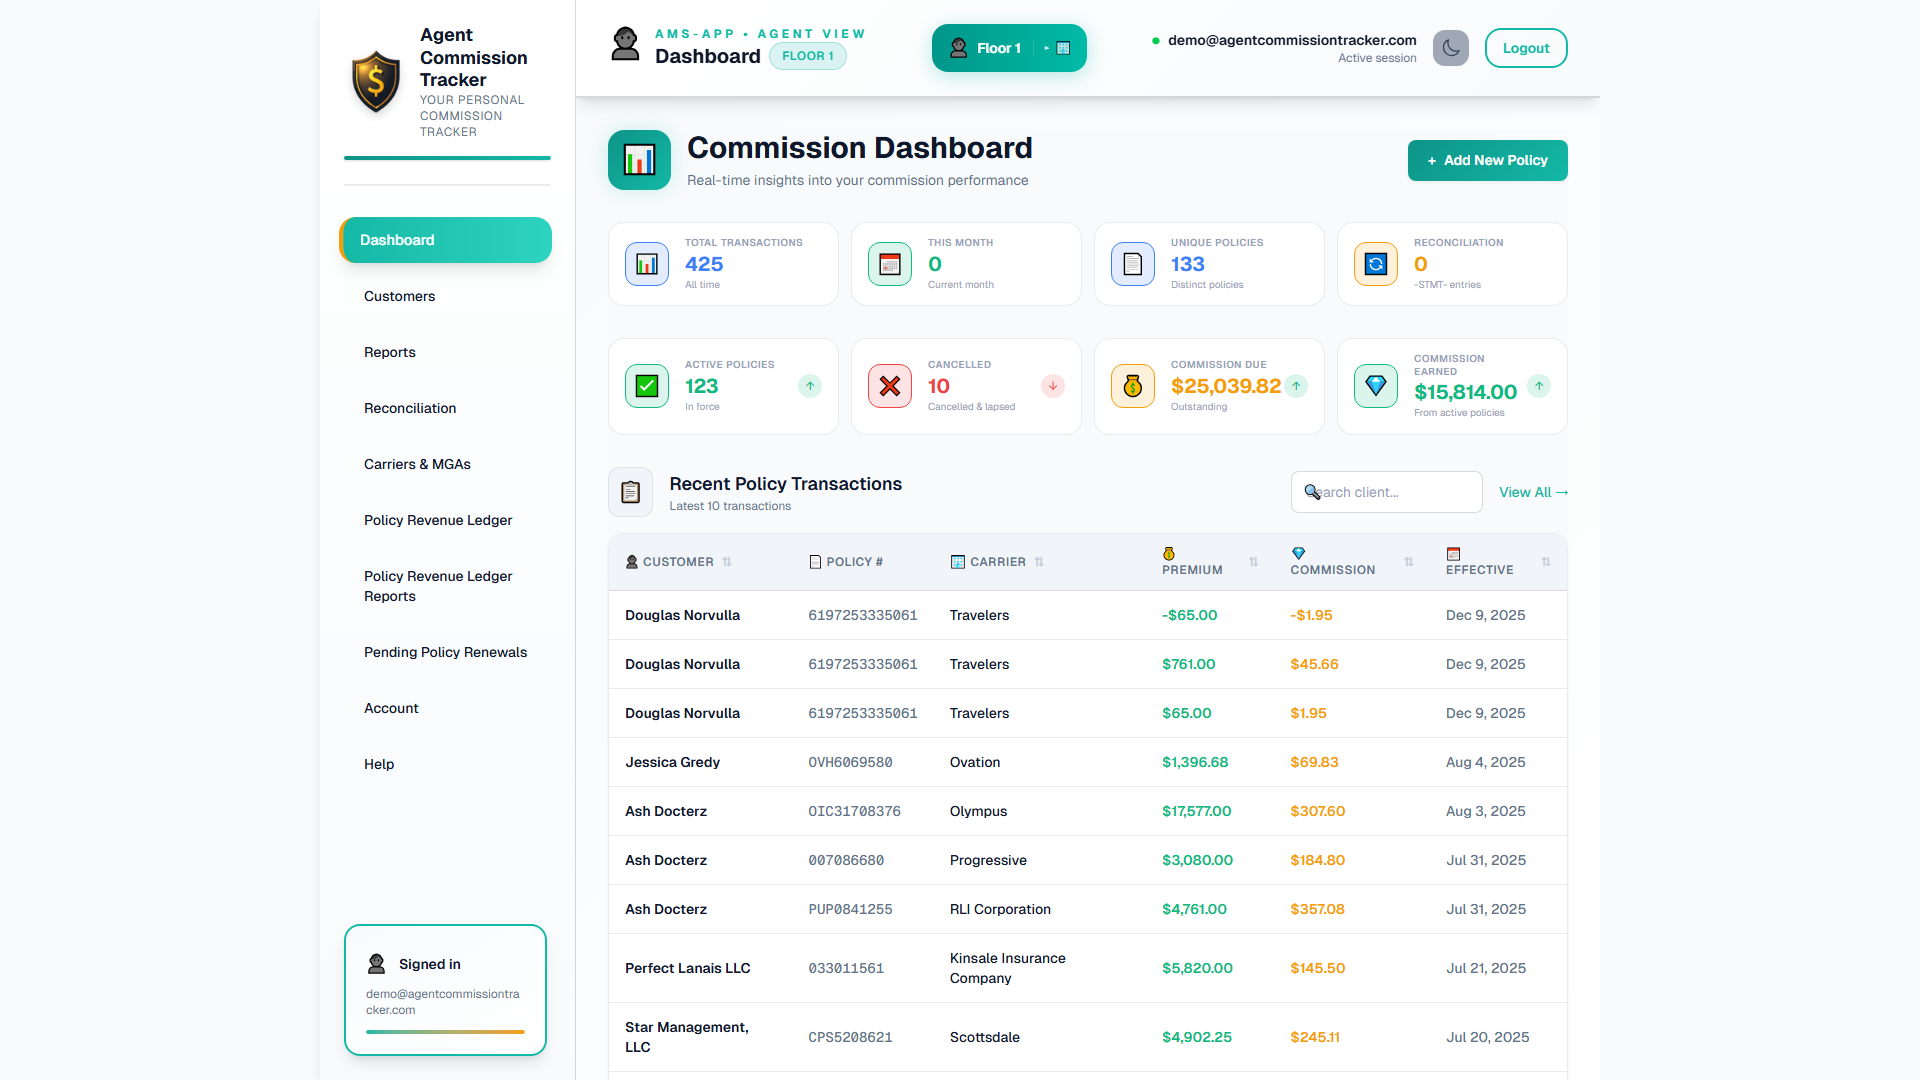
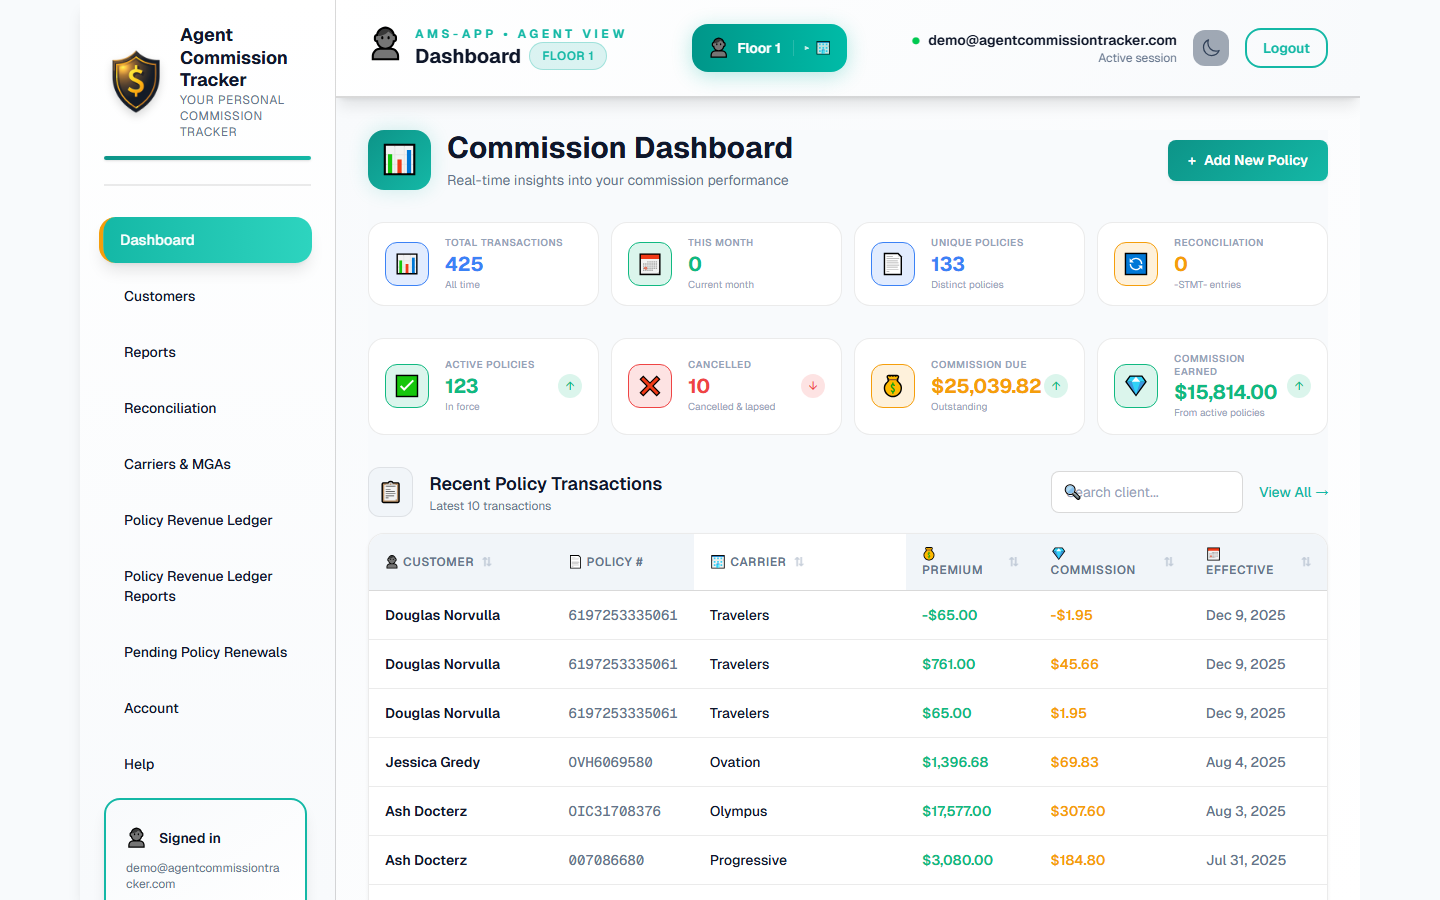
Full screenshots with sidebar, captions outside borders, no cut-off tops
All screenshots retaken at 1440x900 showing complete app with sidebar.
Captions moved outside the blue border to regular text below each image.
No more cropping or cut-off headers.

diff --git a/src/app/ams-app/page.tsx b/src/app/ams-app/page.tsx
@@ -90,33 +90,33 @@ export default function AmsAppPage() {
           </h2>
 
           <div className="grid grid-cols-1 md:grid-cols-2 gap-10">
-            <div className="rounded-xl overflow-hidden shadow-lg border-2 border-primary">
-              <Image src="/images/ams-app/reconciliation.png" alt="Commission reconciliation" width={1344} height={980} className="w-full h-auto" />
-              <div className="p-5 bg-white">
-                <h3 className="font-bold text-xl mb-2">Automated Reconciliation</h3>
-                <p className="text-neutral-dark">Import carrier statements and match payments to policies automatically. Discrepancies are highlighted instantly.</p>
+            <div>
+              <div className="rounded-xl overflow-hidden shadow-lg border-2 border-primary">
+                <Image src="/images/ams-app/reconciliation.png" alt="Commission reconciliation" width={1440} height={900} className="w-full h-auto" />
               </div>
+              <h3 className="font-bold text-xl mt-4 mb-2">Automated Reconciliation</h3>
+              <p className="text-neutral-dark">Import carrier statements and match payments to policies automatically. Discrepancies are highlighted instantly.</p>
             </div>
-            <div className="rounded-xl overflow-hidden shadow-lg border-2 border-primary">
-              <Image src="/images/ams-app/carriers.png" alt="Carrier management" width={1344} height={980} className="w-full h-auto" />
-              <div className="p-5 bg-white">
-                <h3 className="font-bold text-xl mb-2">Carrier Management</h3>
-                <p className="text-neutral-dark">All your carriers in one place. Progressive, Travelers, Safeco, and many more P&amp;C carriers supported.</p>
+            <div>
+              <div className="rounded-xl overflow-hidden shadow-lg border-2 border-primary">
+                <Image src="/images/ams-app/carriers.png" alt="Carrier management" width={1440} height={900} className="w-full h-auto" />
               </div>
+              <h3 className="font-bold text-xl mt-4 mb-2">Carrier Management</h3>
+              <p className="text-neutral-dark">All your carriers in one place. Progressive, Travelers, Safeco, and many more P&amp;C carriers supported.</p>
             </div>
-            <div className="rounded-xl overflow-hidden shadow-lg border-2 border-primary">
-              <Image src="/images/ams-app/ledger.png" alt="Policy revenue ledger" width={1344} height={980} className="w-full h-auto" />
-              <div className="p-5 bg-white">
-                <h3 className="font-bold text-xl mb-2">Policy Revenue Ledger</h3>
-                <p className="text-neutral-dark">Track every commission dollar across all your policies in one clear ledger. Know exactly what you are owed.</p>
+            <div>
+              <div className="rounded-xl overflow-hidden shadow-lg border-2 border-primary">
+                <Image src="/images/ams-app/ledger.png" alt="Policy revenue ledger" width={1440} height={900} className="w-full h-auto" />
               </div>
+              <h3 className="font-bold text-xl mt-4 mb-2">Policy Revenue Ledger</h3>
+              <p className="text-neutral-dark">Track every commission dollar across all your policies in one clear ledger. Know exactly what you are owed.</p>
             </div>
-            <div className="rounded-xl overflow-hidden shadow-lg border-2 border-primary">
-              <Image src="/images/ams-app/renewals.png" alt="Pending policy renewals" width={1344} height={980} className="w-full h-auto" />
-              <div className="p-5 bg-white">
-                <h3 className="font-bold text-xl mb-2">Pending Renewals</h3>
-                <p className="text-neutral-dark">Never miss a renewal. Track upcoming policy renewals and their commission status at a glance.</p>
+            <div>
+              <div className="rounded-xl overflow-hidden shadow-lg border-2 border-primary">
+                <Image src="/images/ams-app/renewals.png" alt="Pending policy renewals" width={1440} height={900} className="w-full h-auto" />
               </div>
+              <h3 className="font-bold text-xl mt-4 mb-2">Pending Renewals</h3>
+              <p className="text-neutral-dark">Never miss a renewal. Track upcoming policy renewals and their commission status at a glance.</p>
             </div>
           </div>
         </div>
@@ -137,7 +137,7 @@ export default function AmsAppPage() {
                 </p>
               </div>
               <div className="rounded-xl overflow-hidden shadow-lg border-2 border-primary">
-                <Image src="/images/ams-app/reconciliation.png" alt="Upload and import commission statements" width={1344} height={980} className="w-full h-auto" />
+                <Image src="/images/ams-app/reconciliation.png" alt="Upload and import commission statements" width={1440} height={900} className="w-full h-auto" />
               </div>
             </div>
 
@@ -150,7 +150,7 @@ export default function AmsAppPage() {
                 </p>
               </div>
               <div className="md:order-1 rounded-xl overflow-hidden shadow-lg border-2 border-primary">
-                <Image src="/images/ams-app/ledger.png" alt="Automatic policy revenue reconciliation" width={1344} height={980} className="w-full h-auto" />
+                <Image src="/images/ams-app/ledger.png" alt="Automatic policy revenue reconciliation" width={1440} height={900} className="w-full h-auto" />
               </div>
             </div>
 
@@ -163,7 +163,7 @@ export default function AmsAppPage() {
                 </p>
               </div>
               <div className="rounded-xl overflow-hidden shadow-lg border-2 border-primary">
-                <Image src="/images/ams-app/reports.png" alt="Commission reports for disputing underpayments" width={1344} height={980} className="w-full h-auto" />
+                <Image src="/images/ams-app/reports.png" alt="Commission reports for disputing underpayments" width={1440} height={900} className="w-full h-auto" />
               </div>
             </div>
           </div>
@@ -175,19 +175,19 @@ export default function AmsAppPage() {
         <div className="max-w-7xl mx-auto px-4 sm:px-6 lg:px-8">
           <h2 className="text-3xl md:text-4xl font-bold text-center mb-16">See It In Action</h2>
           <div className="grid grid-cols-1 md:grid-cols-2 gap-10">
-            <div className="rounded-xl overflow-hidden shadow-lg border-2 border-primary">
-              <Image src="/images/ams-app/customers.png" alt="Customer management" width={1344} height={980} className="w-full h-auto" />
-              <div className="p-5 bg-white">
-                <h3 className="font-bold text-xl mb-2">Customer Management</h3>
-                <p className="text-neutral-dark">See every customer, their policies, carriers, and commission activity at a glance.</p>
+            <div>
+              <div className="rounded-xl overflow-hidden shadow-lg border-2 border-primary">
+                <Image src="/images/ams-app/customers.png" alt="Customer management" width={1440} height={900} className="w-full h-auto" />
               </div>
+              <h3 className="font-bold text-xl mt-4 mb-2">Customer Management</h3>
+              <p className="text-neutral-dark">See every customer, their policies, carriers, and commission activity at a glance.</p>
             </div>
-            <div className="rounded-xl overflow-hidden shadow-lg border-2 border-primary">
-              <Image src="/images/ams-app/ledger-reports.png" alt="Detailed ledger reports" width={1344} height={980} className="w-full h-auto" />
-              <div className="p-5 bg-white">
-                <h3 className="font-bold text-xl mb-2">Detailed Reports</h3>
-                <p className="text-neutral-dark">Comprehensive revenue analytics with transaction details, policy summaries, and export to CSV.</p>
+            <div>
+              <div className="rounded-xl overflow-hidden shadow-lg border-2 border-primary">
+                <Image src="/images/ams-app/ledger-reports.png" alt="Detailed ledger reports" width={1440} height={900} className="w-full h-auto" />
               </div>
+              <h3 className="font-bold text-xl mt-4 mb-2">Detailed Reports</h3>
+              <p className="text-neutral-dark">Comprehensive revenue analytics with transaction details, policy summaries, and export to CSV.</p>
             </div>
           </div>
         </div>
